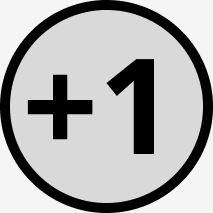
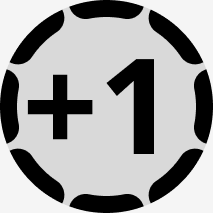
Refresh Page 3 action tiles and label tile 11

Changed region(s): [[0.0282, 0.0282, 0.9859, 0.9859], [0.7042, 0.7042, 0.9014, 0.9014]]

diff --git a/docs/catalog.js b/docs/catalog.js
@@ -1,1 +1,1 @@
-window.FRONTIER_CATALOG = {"source": "Figma Page 3 Game components slice 282:2815", "boards": [{"title": "Main board", "figmaId": "282:1521", "path": "assets/boards/board-main-e46ceed54f.png", "width": 3394, "height": 2761}, {"title": "The Edge", "figmaId": "282:1845", "path": "assets/boards/board-edge-4a245f7e45.png", "width": 1536, "height": 1024}], "cards": [{"title": "Action Guide", "figmaId": "282:1189", "path": "assets/cards/card-action-guide-6323e6fee4.png", "width": 506, "height": 729}, {"title": "Region Bonus Guide", "figmaId": "282:1230", "path": "assets/cards/card-region-bonus-guide-800eb32bd9.png", "width": 506, "height": 732}], "references": [], "decks": [{"title": "Monuments", "figmaId": "282:1897", "count": 30, "columns": 8, "rows": 4, "cardWidth": 442, "cardHeight": 640, "face": {"path": "assets/decks/monuments-faces-d44fdccb0e.png", "width": 3536, "height": 2560}, "back": {"path": "assets/decks/monuments-back-a65fba90e2.png", "width": 442, "height": 640}}, {"title": "Objectives", "figmaId": "282:1252", "count": 30, "columns": 6, "rows": 5, "cardWidth": 388, "cardHeight": 519, "face": {"path": "assets/decks/objectives-faces-4d91a50427.png", "width": 2328, "height": 2595}, "back": {"path": "assets/decks/objectives-back-c08c78cc67.png", "width": 388, "height": 519}}, {"title": "Specials", "figmaId": "282:2715", "count": 16, "columns": 4, "rows": 4, "cardWidth": 442, "cardHeight": 640, "face": {"path": "assets/decks/specials-faces-adc1172863.png", "width": 1768, "height": 2560}, "back": {"path": "assets/decks/specials-back-0b946676e3.png", "width": 442, "height": 640}}], "tokens": [{"title": "Action tile 1", "figmaId": "282:1158", "path": "assets/tokens/action-tile-1-fb100c9aa5.png", "width": 213, "height": 213}, {"title": "Action tile 2", "figmaId": "282:1180", "path": "assets/tokens/action-tile-2-7107aa55c8.png", "width": 213, "height": 213}, {"title": "Action tile 4", "figmaId": "282:1183", "path": "assets/tokens/action-tile-4-21af0fce2d.png", "width": 213, "height": 213}, {"title": "Action tile 5", "figmaId": "282:1168", "path": "assets/tokens/action-tile-5-39a0ec00fc.png", "width": 213, "height": 213}, {"title": "Action tile 6", "figmaId": "282:1177", "path": "assets/tokens/action-tile-6-813e8438d5.png", "width": 213, "height": 213}, {"title": "Action tile 7", "figmaId": "282:1163", "path": "assets/tokens/action-tile-7-7d3d7a7703.png", "width": 213, "height": 213}, {"title": "Action tile 7 (second design)", "figmaId": "282:2931", "path": "assets/tokens/action-tile-7-variant.png", "width": 213, "height": 213}, {"title": "Action tile 8", "figmaId": "282:2939", "path": "assets/tokens/action-tile-8.png", "width": 213, "height": 213}, {"title": "Action tile 9", "figmaId": "282:3841", "path": "assets/tokens/action-tile-9.png", "width": 213, "height": 213}, {"title": "Action tile 10", "figmaId": "282:3837", "path": "assets/tokens/action-tile-10.png", "width": 213, "height": 213}]};
+window.FRONTIER_CATALOG = {"source": "Figma Page 3 Game components slice 282:2815", "boards": [{"title": "Main board", "figmaId": "282:1521", "path": "assets/boards/board-main-e46ceed54f.png", "width": 3394, "height": 2761}, {"title": "The Edge", "figmaId": "282:1845", "path": "assets/boards/board-edge-4a245f7e45.png", "width": 1536, "height": 1024}], "cards": [{"title": "Action Guide", "figmaId": "282:1189", "path": "assets/cards/card-action-guide-6323e6fee4.png", "width": 506, "height": 729}, {"title": "Region Bonus Guide", "figmaId": "282:1230", "path": "assets/cards/card-region-bonus-guide-800eb32bd9.png", "width": 506, "height": 732}], "references": [], "decks": [{"title": "Monuments", "figmaId": "282:1897", "count": 30, "columns": 8, "rows": 4, "cardWidth": 442, "cardHeight": 640, "face": {"path": "assets/decks/monuments-faces-d44fdccb0e.png", "width": 3536, "height": 2560}, "back": {"path": "assets/decks/monuments-back-a65fba90e2.png", "width": 442, "height": 640}}, {"title": "Objectives", "figmaId": "282:1252", "count": 30, "columns": 6, "rows": 5, "cardWidth": 388, "cardHeight": 519, "face": {"path": "assets/decks/objectives-faces-4d91a50427.png", "width": 2328, "height": 2595}, "back": {"path": "assets/decks/objectives-back-c08c78cc67.png", "width": 388, "height": 519}}, {"title": "Specials", "figmaId": "282:2715", "count": 16, "columns": 4, "rows": 4, "cardWidth": 442, "cardHeight": 640, "face": {"path": "assets/decks/specials-faces-adc1172863.png", "width": 1768, "height": 2560}, "back": {"path": "assets/decks/specials-back-0b946676e3.png", "width": 442, "height": 640}}], "tokens": [{"title": "Action tile 1", "figmaId": "282:1158", "path": "assets/tokens/action-tile-1-fb100c9aa5.png", "width": 213, "height": 213}, {"title": "Action tile 2", "figmaId": "282:1180", "path": "assets/tokens/action-tile-2-7107aa55c8.png", "width": 213, "height": 213}, {"title": "Action tile 4", "figmaId": "282:1183", "path": "assets/tokens/action-tile-4-21af0fce2d.png", "width": 213, "height": 213}, {"title": "Action tile 5", "figmaId": "282:1168", "path": "assets/tokens/action-tile-5-39a0ec00fc.png", "width": 213, "height": 213}, {"title": "Action tile 6", "figmaId": "282:1177", "path": "assets/tokens/action-tile-6-813e8438d5.png", "width": 213, "height": 213}, {"title": "Action tile 7", "figmaId": "282:1163", "path": "assets/tokens/action-tile-7-7d3d7a7703.png", "width": 213, "height": 213}, {"title": "Action tile 8", "figmaId": "282:2939", "path": "assets/tokens/action-tile-8.png", "width": 213, "height": 213}, {"title": "Action tile 9", "figmaId": "282:3841", "path": "assets/tokens/action-tile-9.png", "width": 213, "height": 213}, {"title": "Action tile 10", "figmaId": "282:3837", "path": "assets/tokens/action-tile-10.png", "width": 213, "height": 213}, {"title": "Action tile 11", "figmaId": "282:2931", "path": "assets/tokens/action-tile-11.png", "width": 213, "height": 213}]};

diff --git a/docs/index.html b/docs/index.html
@@ -6,7 +6,7 @@
   <meta name="theme-color" content="#12171c">
   <title>Frontier · Tabletop Simulator assets</title>
   <link rel="stylesheet" href="styles.css?v=3">
-  <script defer src="catalog.js?v=48ce4b843c"></script>
+  <script defer src="catalog.js?v=3028ca645e"></script>
   <script defer src="app.js?v=6"></script>
 </head>
 <body>

diff --git a/scripts/build_assets.py b/scripts/build_assets.py
@@ -161,8 +161,7 @@ def main() -> None:
         catalog["decks"].append({"title": title, "figmaId": figma_id,
                                   **packed, "face": face, "back": back_asset})
 
-    # Page 3 has no ActionTile3 and contains two distinct ActionTile7 frames.
-    # Keep the original tile 7 URL on the upper-row design for existing TTS links.
+    # Page 3 has no ActionTile3. The second former ActionTile7 is now ActionTile11.
     action_tiles = [
         ("action-tile-1", "Action tile 1", "282:1158"),
         ("action-tile-2", "Action tile 2", "282:1180"),
@@ -170,15 +169,18 @@ def main() -> None:
         ("action-tile-5", "Action tile 5", "282:1168"),
         ("action-tile-6", "Action tile 6", "282:1177"),
         ("action-tile-7", "Action tile 7", "282:1163"),
-        ("action-tile-7-variant", "Action tile 7 (second design)", "282:2931"),
         ("action-tile-8", "Action tile 8", "282:2939"),
         ("action-tile-9", "Action tile 9", "282:3841"),
         ("action-tile-10", "Action tile 10", "282:3837"),
+        ("action-tile-11", "Action tile 11", "282:2931"),
     ]
     for slug, title, figma_id in action_tiles:
         catalog["tokens"].append({"title": title,
                                   "figmaId": figma_id,
                                   **publish(load(slug), "tokens", slug)})
+
+    # The former second-design URL may already be linked in TTS.
+    publish(load("action-tile-11"), "tokens", "action-tile-7-variant")
 
     manifest = json.dumps(catalog, indent=2, ensure_ascii=False)
     (DOCS / "catalog.json").write_text(manifest + "\n", encoding="utf-8")
